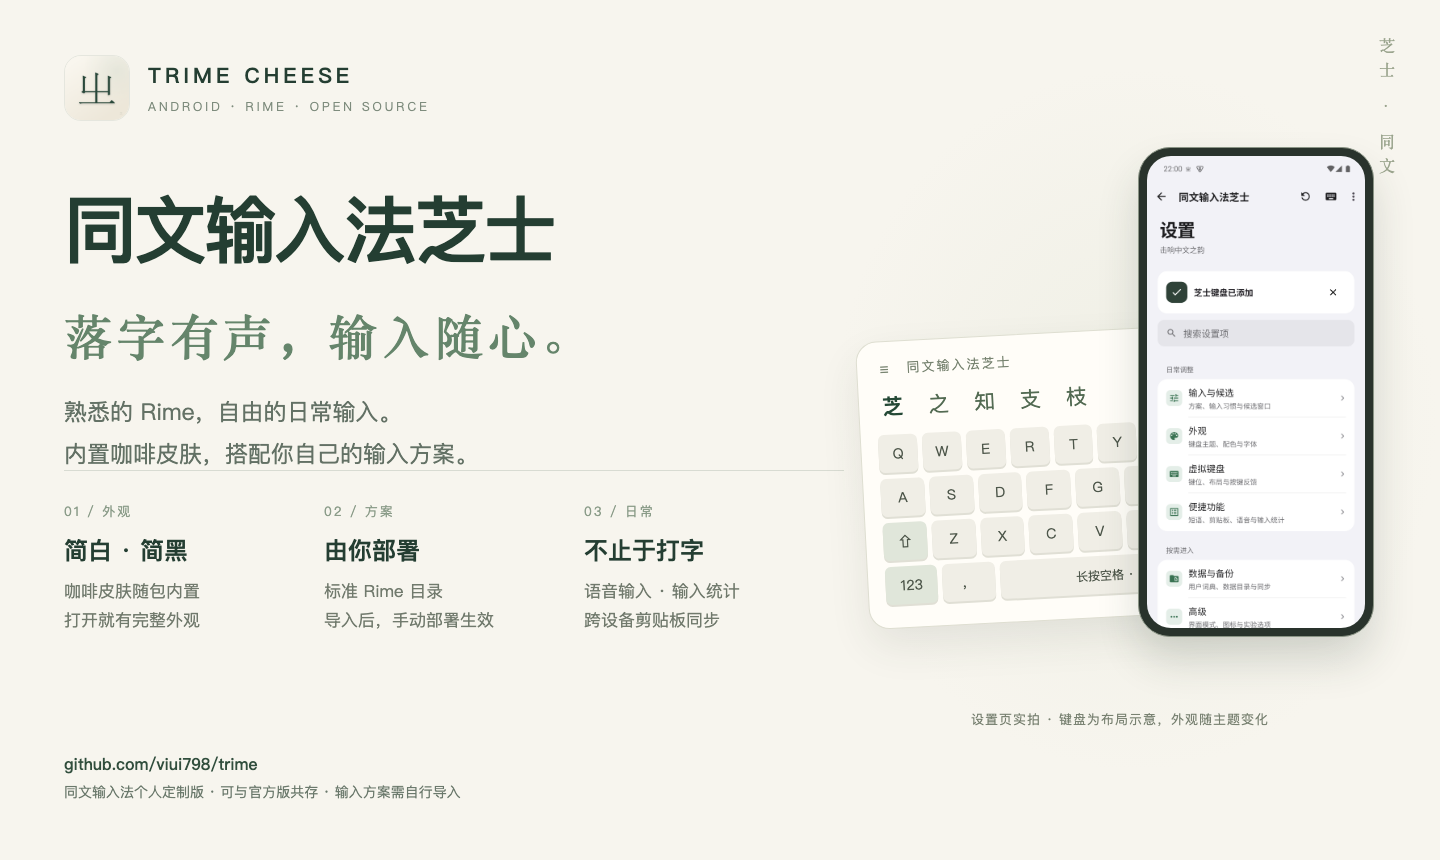
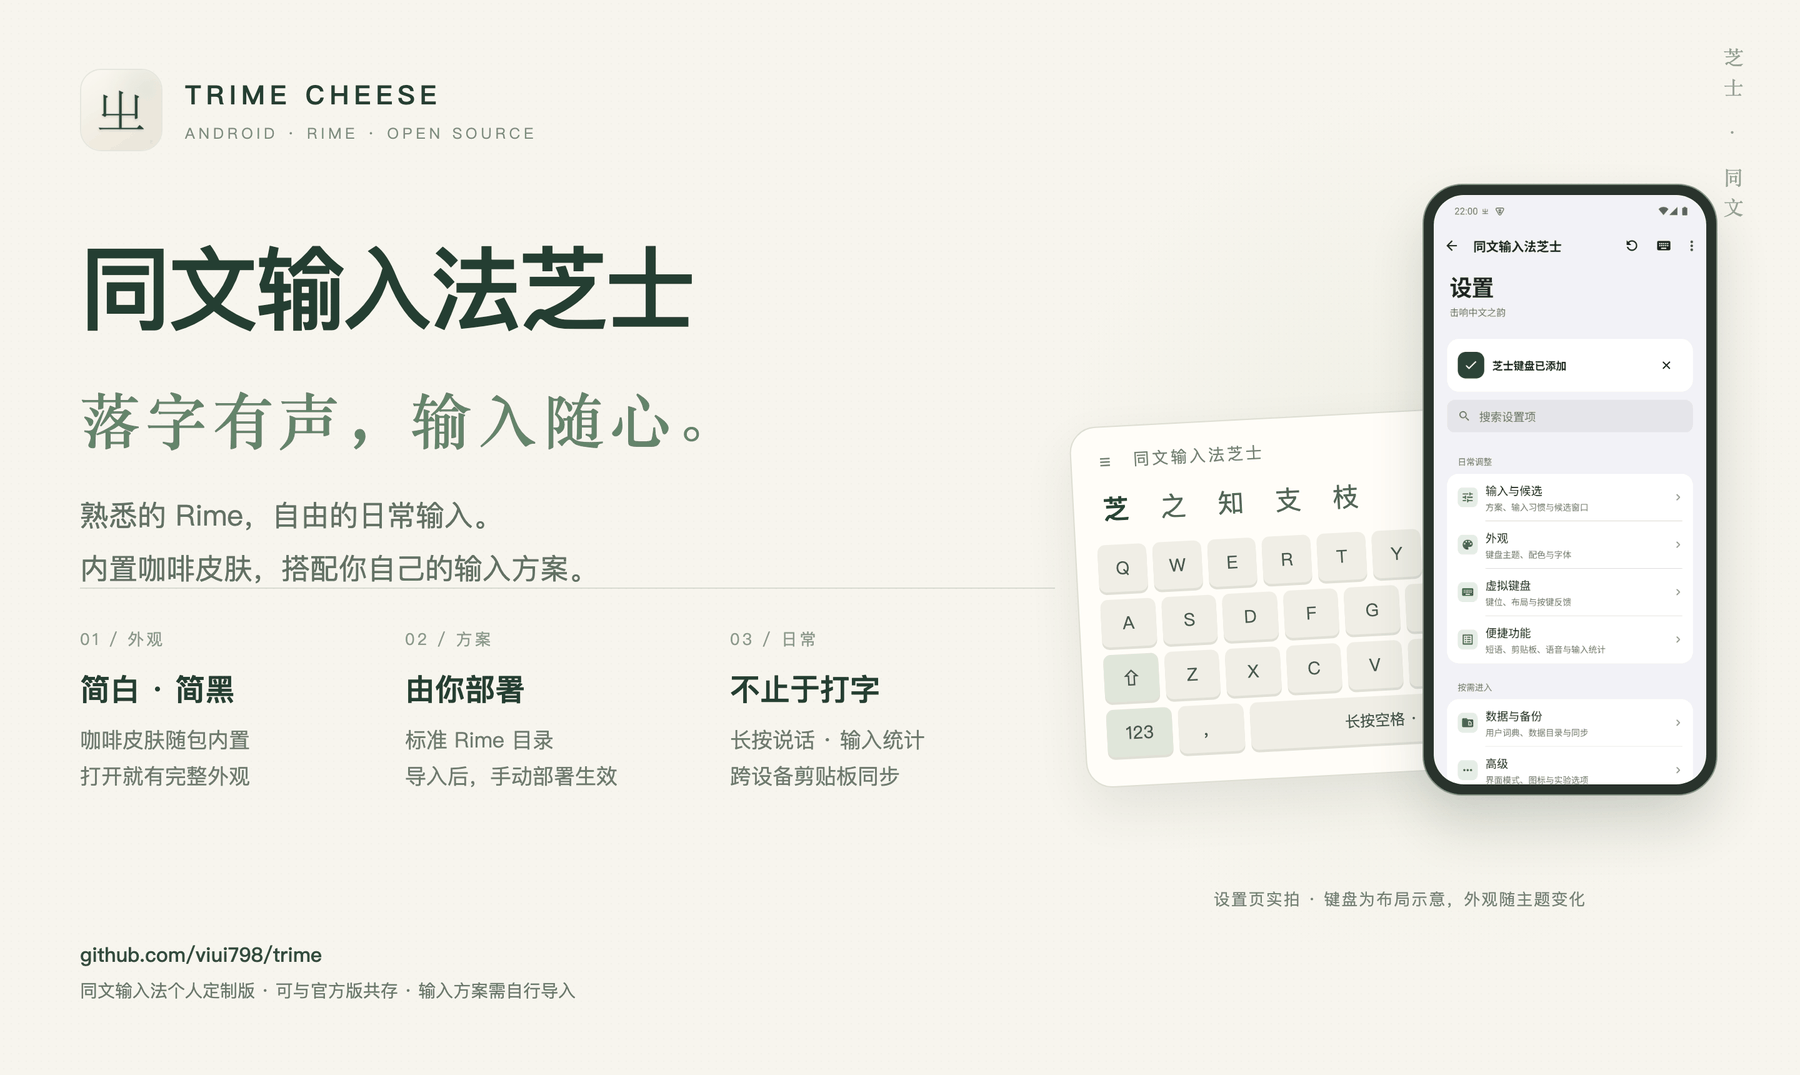
release: 1.2.12 语音改为可选可导入
- versionCode 22 / 1.2.12-cheese
- README：语音一行改成「直接选用手机里的识别服务，也可导入 .js 插件」，
  补 FAQ「语音需要自己装插件吗」，更新记录加 1.2.12，规格表与徽章同步
- 主图：第三栏「语音输入」改为「长按说话」，重新渲染（1440×860 @2x，
  量化后 235 KB）

diff --git a/docs/images/hero.html b/docs/images/hero.html
@@ -47,7 +47,7 @@ h2{font-size:24px;font-weight:600;margin:13px 0 10px}
   <section class="features">
     <div class="feature"><span class="number">01 / 外观</span><h2>简白 · 简黑</h2><p>咖啡皮肤随包内置<br>打开就有完整外观</p></div>
     <div class="feature"><span class="number">02 / 方案</span><h2>由你部署</h2><p>标准 Rime 目录<br>导入后，手动部署生效</p></div>
-    <div class="feature"><span class="number">03 / 日常</span><h2>不止于打字</h2><p>语音输入 · 输入统计<br>跨设备剪贴板同步</p></div>
+    <div class="feature"><span class="number">03 / 日常</span><h2>不止于打字</h2><p>长按说话 · 输入统计<br>跨设备剪贴板同步</p></div>
   </section>
   <div class="bottom"><b>github.com/viui798/trime</b><br>同文输入法个人定制版 · 可与官方版共存 · 输入方案需自行导入</div>
   <div class="keyboard" aria-label="键盘布局示意">

diff --git a/README.md b/README.md
@@ -19,7 +19,7 @@ SPDX-License-Identifier: GPL-3.0-or-later
   <a href="https://github.com/viui798/trime/releases/latest"><img alt="Android 5.0+" src="https://img.shields.io/badge/Android-5.0%2B-8B6B4A?style=flat-square&logo=android&logoColor=white&labelColor=3E332A"></a>
   <a href="LICENSE"><img alt="许可证 GPL-3.0" src="https://img.shields.io/badge/%E8%AE%B8%E5%8F%AF%E8%AF%81-GPL--3.0-8B6B4A?style=flat-square&labelColor=3E332A"></a>
   <a href="https://github.com/osfans/trime"><img alt="基于 Trime 3.3.13" src="https://img.shields.io/badge/%E5%9F%BA%E4%BA%8E-Trime%203.3.13-8B6B4A?style=flat-square&labelColor=3E332A"></a>
-  <a href="https://github.com/viui798/trime/releases"><img alt="当前版本 1.2.11-cheese" src="https://img.shields.io/badge/%E7%89%88%E6%9C%AC-1.2.11--cheese-8B6B4A?style=flat-square&labelColor=3E332A"></a>
+  <a href="https://github.com/viui798/trime/releases"><img alt="当前版本 1.2.12-cheese" src="https://img.shields.io/badge/%E7%89%88%E6%9C%AC-1.2.12--cheese-8B6B4A?style=flat-square&labelColor=3E332A"></a>
 </p>
 
 <br>
@@ -92,11 +92,11 @@ SPDX-License-Identifier: GPL-3.0-or-later
 | **存储** | 传统 Rime 根目录，三种模式可选，切换时目标同名文件优先保留、旧目录不删 |
 | **引擎** | 弹出输入法时检查状态，停摆自动重启（失败按 2 秒间隔重试） |
 | **键盘** | 底行 `'` 换成中文逗号 `，`（长按句号）；功能键标签简繁统一；默认开启震动 |
-| **语音** | 内置通义千问、豆包、腾讯识别 / 翻译四个 JS 插件，也能导入第三方 `.js` |
+| **语音** | 直接选用手机里的语音识别服务（说点啥、语音助手等），也可导入 `.js` 插件接云端识别 |
 | **输入统计** | 输入速度、生涯段位与键盘热力，可生成图片分享 |
 | **剪贴板同步** | 多设备互通，支持多种服务端类型，可按文本长度、后缀、大小做接收过滤 |
 
-语音输入需麦克风权限、网络及所选服务的凭据，并需授权插件访问其声明的域名；剪贴板同步需配置兼容的服务端。两者都不是安装后自动启用的离线功能。
+语音可以直接用系统已有的识别服务，也可以导入 `.js` 插件接云端识别（密钥自备，并需授权其访问声明的域名）。剪贴板同步需配置兼容的服务端。两者都不是装完即用的离线功能。
 
 ## 安装
 
@@ -108,12 +108,22 @@ SPDX-License-Identifier: GPL-3.0-or-later
 | --- | --- |
 | 应用名 | 同文输入法芝士 |
 | 包名 | `com.viui.trime.cheese` |
-| 版本 | `1.2.11-cheese` / versionCode 21 |
-| 系统 | Android 5.0 及以上；语音识别需 Android 6.0+（QuickJS 限制） |
+| 版本 | `1.2.12-cheese` / versionCode 22 |
+| 系统 | Android 5.0 及以上；语音识别需 Android 6.0+ |
 | 架构 | arm64-v8a、armeabi-v7a、x86、x86_64（模拟器） |
 | 体积 | 约 7.2 MB |
 
 ## 常见问题
+
+<details>
+<summary><b>语音需要自己装插件吗？</b></summary>
+<br>
+
+不需要。手机里只要有提供语音识别服务的应用（说点啥、ASR 助手、Google 语音…），在「设置 → 便捷功能 → 语音输入 → 首选语音输入法」选中它，长按空格就能直接在本键盘内识别，不会跳到别的输入法。
+
+想用云端识别（通义千问、豆包、腾讯云），到仓库 `docs/voice-plugins/` 下载对应 `.js`，同一页面点「导入 JS 插件」，再填自己的密钥。
+
+</details>
 
 <details>
 <summary><b>主题名没变成「咖啡芝士默认」？</b></summary>
@@ -164,6 +174,14 @@ arm64-v8a（绝大多数手机）、armeabi-v7a（老 32 位 ARM）、x86 / x86_
 </details>
 
 ## 更新记录
+
+### 1.2.12 · 语音改成可选可导入
+
+- 语音不再内置插件，两种来源：手机里已有的语音识别服务（说点啥、ASR 助手、Google 语音等），或自己导入的 `.js` 插件
+- 长按空格直接在本键盘内识别，不切换输入法；引擎列表也会列出只提供识别服务、不注册输入法的应用
+- 引擎被删或不可用时自动回退到可用引擎，不再一直提示「找不到语音插件」
+- 四个云端插件移到仓库 `docs/voice-plugins/`，需要的话自行下载导入
+- 识别失败的提示改准：系统限制导致的录音失败，不再误报成「缺少录音权限」
 
 ### 1.2.11 · 工具栏误触修复
 
